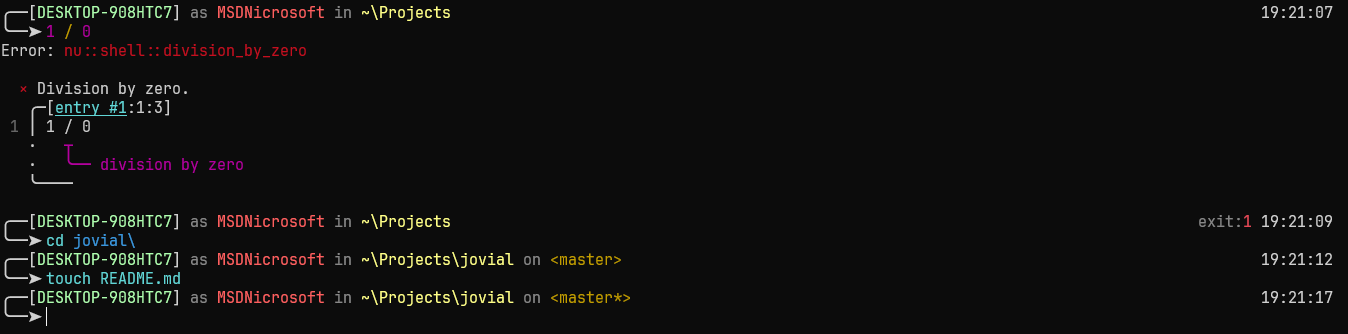
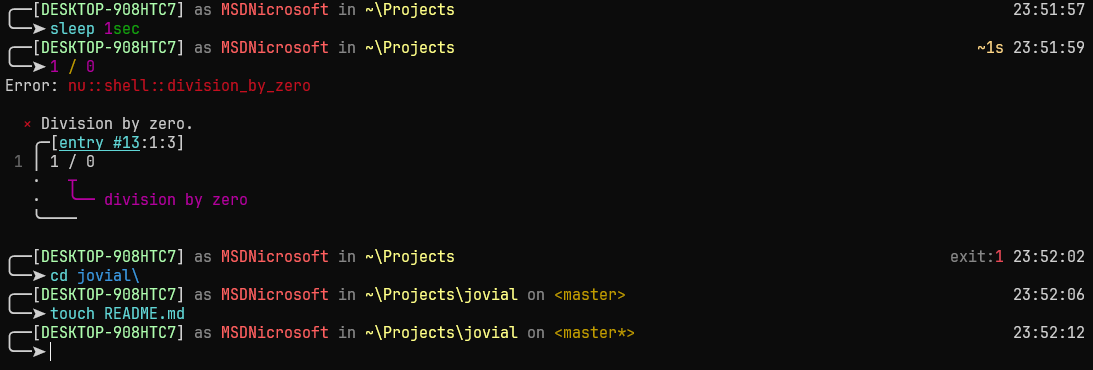
feat: Execution duration

diff --git a/README.md b/README.md
@@ -8,7 +8,25 @@ A shell theme [Jovial](https://github.com/zthxxx/jovial) implemented in [Nushell
 
 - Download file [jovial.nu](./jovial.nu)
 - Move the file into your `nu` config directory
-- Append the follow code in your configuration file (e.g. `config.nu`)
+- Apped the follow code in `$env.config.hooks.pre_execution` of your configuration file (`config.nu`)
+    ```nushell
+    { load-env { _jovial_pre_time: (date now | into string) } }
+    ```
+
+    For example:
+    ```nushell
+    $env.config = {
+    # ...
+        hooks: {
+            # ...
+            pre_execution: [
+                # ...
+                { load-env { _jovial_pre_time: (date now | into string) } }
+            ]
+        }
+    }
+    ```
+- Append the follow code in your configuration file (`config.nu`)
 ```nushell
 # Note: Use absolute path
 use C:\Users\YOURUSERNAME\AppData\Roaming\nushell\jovial.nu
